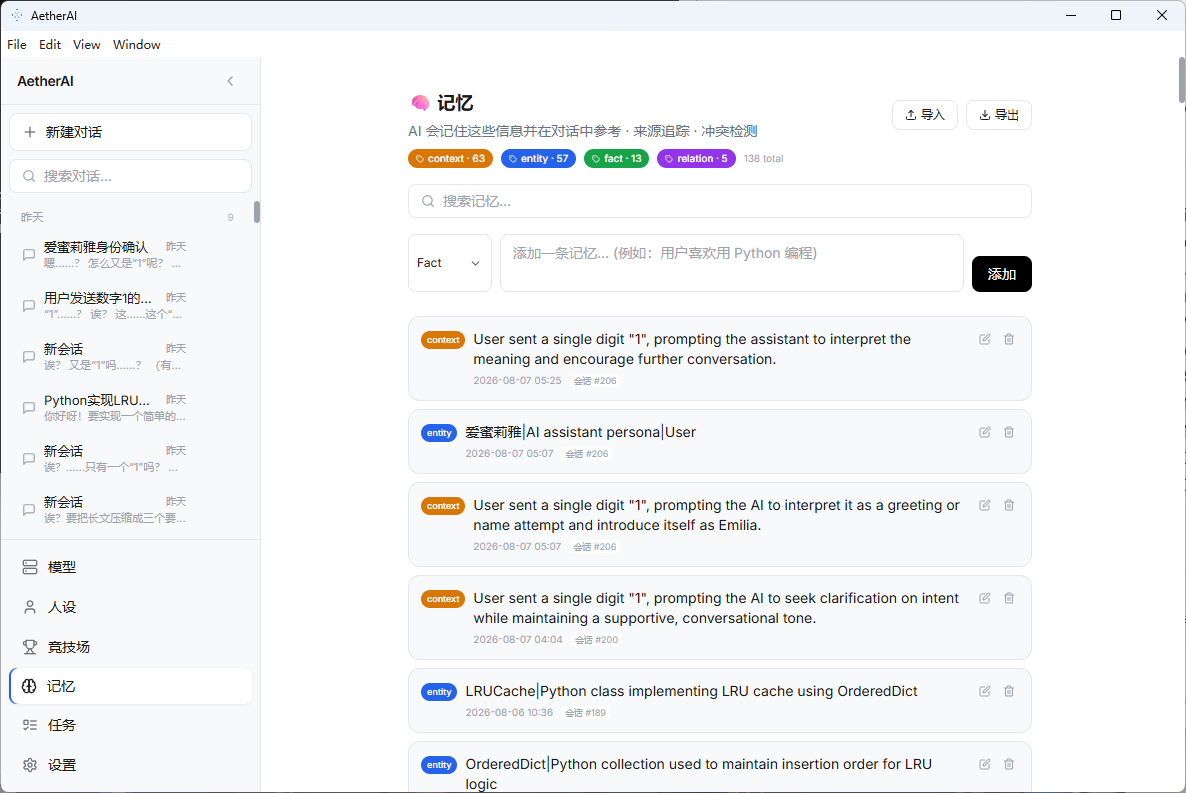
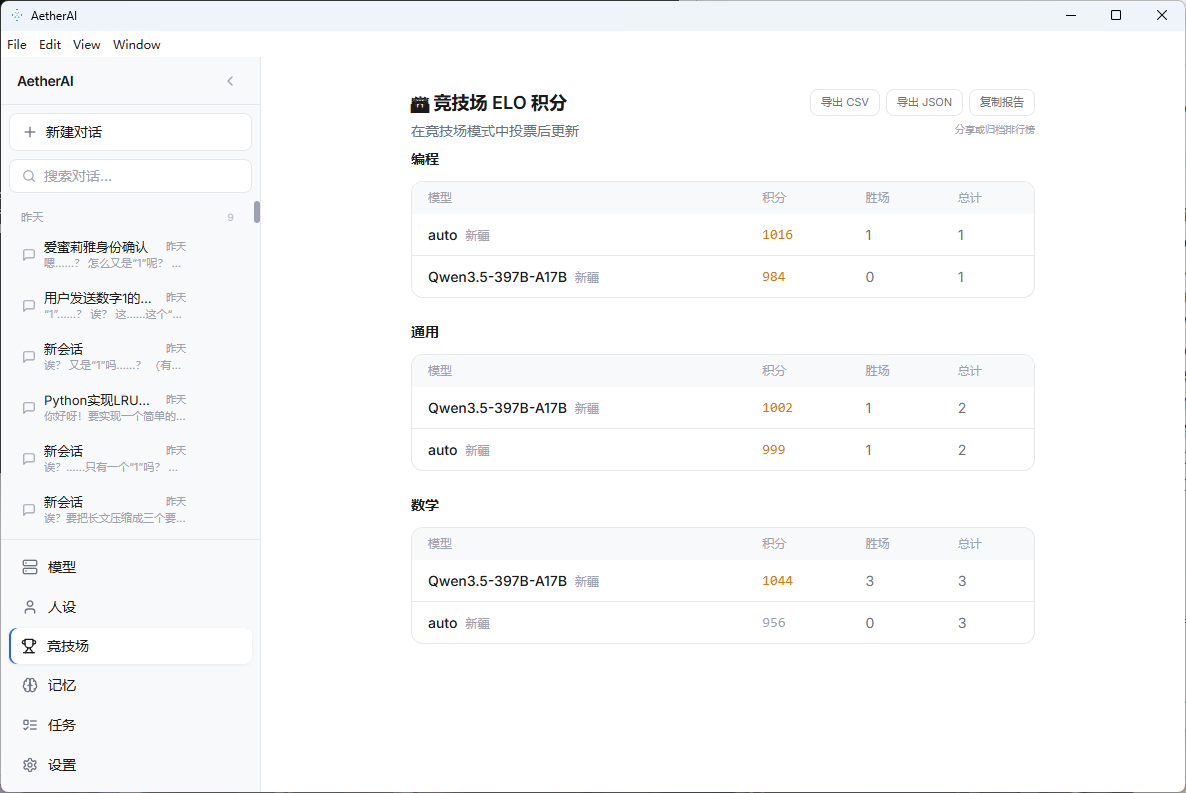
fix: correct README screenshots - unique images and matching descriptions
- 03.png was erroneously identical to 04.png (both ELO arena) - replaced with actual background tasks dialog
- 02.png updated to AetherAI-branded chat screenshot
- 01.png already correct AetherAI welcome screen
- Aligned all screenshot descriptions with actual image content:
  Row 1: Welcome & Model Picker / Multi-provider Chat / Background Tasks
  Row 2: ELO Arena / Structured Memory / MCP & Customization
- Updated both README.md and README.zh-CN.md

diff --git a/README.zh-CN.md b/README.zh-CN.md
@@ -84,14 +84,14 @@ start.bat        # Windows: 安装依赖、构建前端、启动 Electron
 
 ## 截图一览
 
-AetherAI 将聊天、编码 Agent、模型对比和结构化记忆整合在一起——以下是主要功能界面:
+AetherAI 将聊天、编码 Agent、模型对比和结构化记忆整合在一起——以下是各主要功能界面:
 
 <div align="center">
 
-| **欢迎与思考强度** | **多提供商聊天** | **Agent Plan-Act-Observe** |
+| **欢迎与模型选择** | **多提供商聊天** | **后台任务** |
 |:---:|:---:|:---:|
-| <img src="./assets/screenshots/01.png" width="280" alt="欢迎屏与思考强度滑块" /> | <img src="./assets/screenshots/02.png" width="280" alt="代码渲染聊天" /> | <img src="./assets/screenshots/03.png" width="280" alt="Agent 规划面板" /> |
-| 选择模型、调节思考强度、开始对话 | 代码块、附件、长文本折叠 | Plan → Act → Observe 实时推理轨迹 |
+| <img src="./assets/screenshots/01.png" width="280" alt="欢迎屏" /> | <img src="./assets/screenshots/02.png" width="280" alt="代码渲染聊天" /> | <img src="./assets/screenshots/03.png" width="280" alt="后台任务对话框" /> |
+| 选择模型、调节思考强度、开始对话 | 流式响应、代码块、长文本折叠 | 选择模型在后台运行 Agent 任务 |
 
 | **ELO 竞技场** | **结构化记忆** | **MCP 与个性化** |
 |:---:|:---:|:---:|

diff --git a/README.md b/README.md
@@ -90,10 +90,10 @@ AetherAI unifies chat, agent coding, model comparison, and structured memory —
 
 <div align="center">
 
-| **Welcome & Thinking Effort** | **Multi-provider Chat** | **Agent Plan-Act-Observe** |
+| **Welcome & Model Picker** | **Multi-provider Chat** | **Background Tasks** |
 |:---:|:---:|:---:|
-| <img src="./assets/screenshots/01.png" width="280" alt="Welcome screen with thinking-effort slider" /> | <img src="./assets/screenshots/02.png" width="280" alt="Chat with code rendering" /> | <img src="./assets/screenshots/03.png" width="280" alt="Agent planning panel" /> |
-| Pick any model, adjust thinking effort, start chatting | Code blocks, attachments, long-paste folding | Plan → Act → Observe with live reasoning trace |
+| <img src="./assets/screenshots/01.png" width="280" alt="Welcome screen" /> | <img src="./assets/screenshots/02.png" width="280" alt="Chat with code rendering" /> | <img src="./assets/screenshots/03.png" width="280" alt="Background tasks dialog" /> |
+| Pick any model, adjust thinking effort, start chatting | Streaming responses, code blocks, long-paste folding | Run agent tasks in background with model selection |
 
 | **ELO Arena** | **Structured Memory** | **MCP & Customization** |
 |:---:|:---:|:---:|
